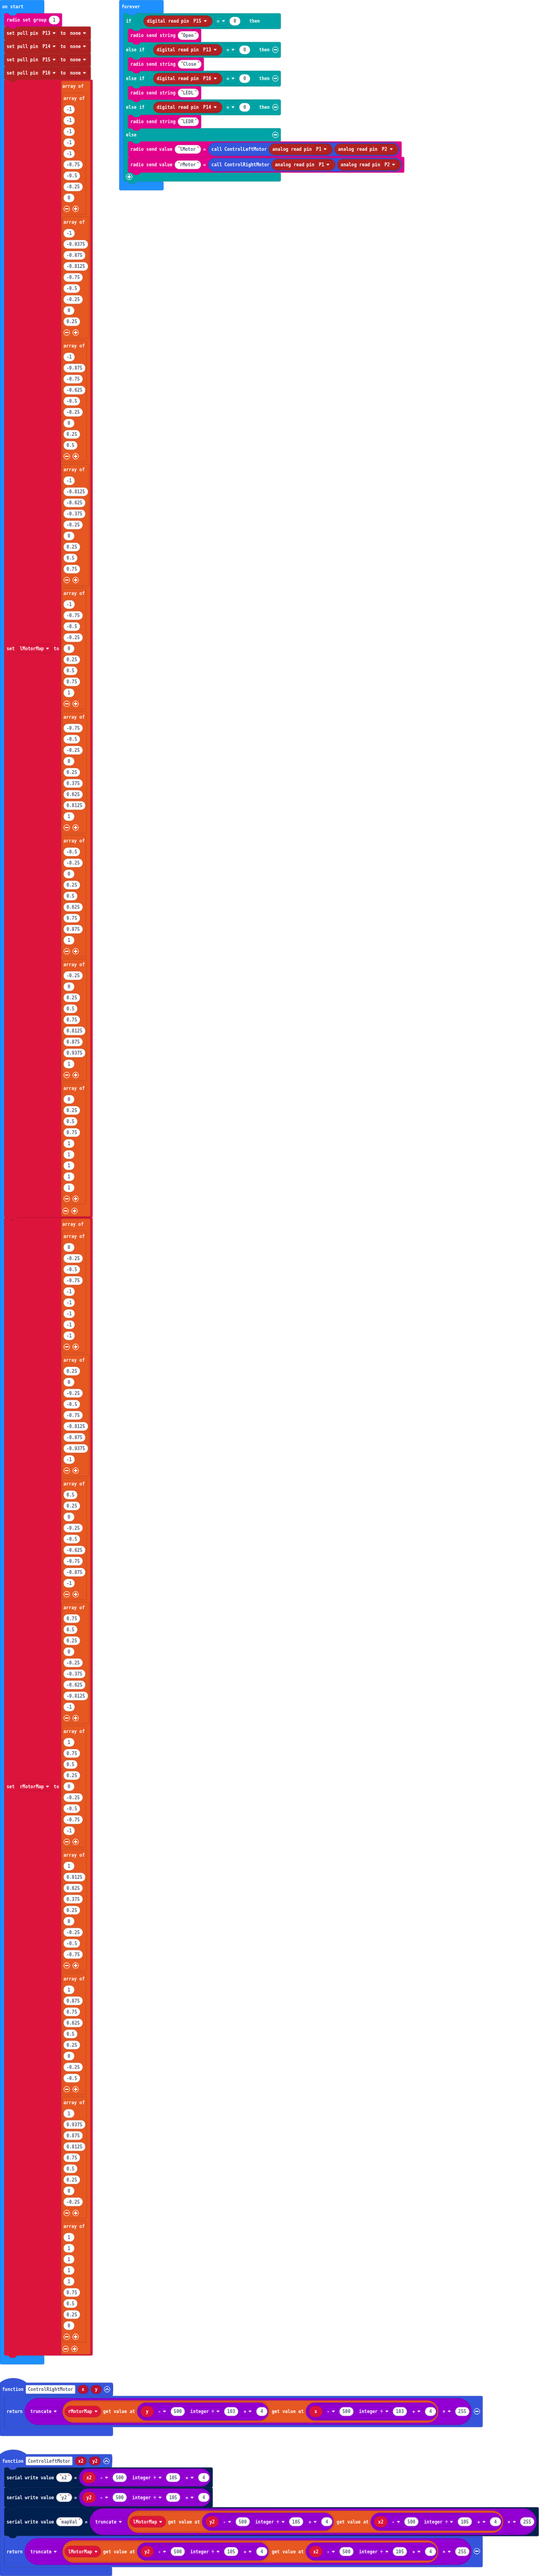
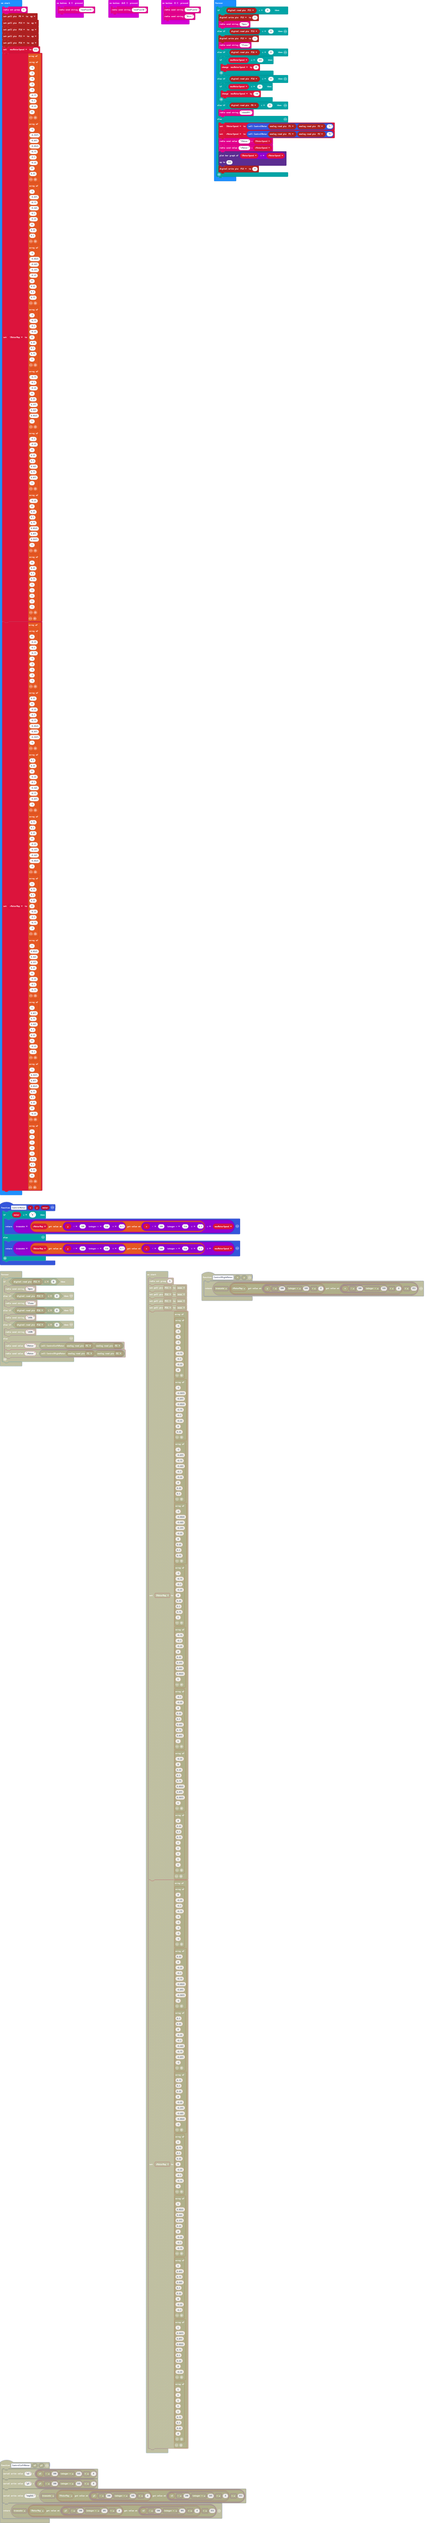
Adjustable Motor Map and Bug Fixes

Changed region(s): [[0.0, 0.0, 0.9834, 1.0]]

diff --git a/main.ts b/main.ts
@@ -1,32 +1,260 @@
-function ControlRightMotor(x: number, y: number): number {
-    return Math.trunc(rMotorMap[Math.idiv(y - 500, 114) + 4.5][Math.idiv(x - 500, 114) + 4.5] * 255)
+input.onButtonPressed(Button.A, function () {
+    radio.sendString("neoPixelR")
+})
+input.onButtonPressed(Button.AB, function () {
+    radio.sendString("neoPixelB")
+})
+input.onButtonPressed(Button.B, function () {
+    radio.sendString("neoPixelG")
+    radio.sendString("Hiii")
+})
+function ControlMotor (x: number, y: number, motor: string) {
+    if (motor == "R") {
+        return Math.trunc(rMotorMap[Math.idiv(y - 500, 114) + 4.5][Math.idiv(x - 500, 114) + 4.5] * maxMotorSpeed)
+    } else {
+        return Math.trunc(lMotorMap[Math.idiv(y - 500, 114) + 4.5][Math.idiv(x - 500, 114) + 4.5] * maxMotorSpeed)
+    }
 }
-
-function ControlLeftMotor(x2: number, y2: number): number {
-    return Math.trunc(lMotorMap[Math.idiv(y2 - 500, 114) + 4.5][Math.idiv(x2 - 500, 114) + 4.5] * 255)
-}
-
-let rMotorMap : number[][] = []
-let lMotorMap : number[][] = []
+let rMotorSpeed = 0
+let lMotorSpeed = 0
+let rMotorMap: number[][] = []
+let lMotorMap: number[][] = []
+let maxMotorSpeed = 0
 radio.setGroup(1)
-pins.setPull(DigitalPin.P13, PinPullMode.PullNone)
-pins.setPull(DigitalPin.P14, PinPullMode.PullNone)
-pins.setPull(DigitalPin.P15, PinPullMode.PullNone)
-pins.setPull(DigitalPin.P16, PinPullMode.PullNone)
-lMotorMap = [[-1, -1, -1, -1, -1, -0.75, -0.5, -0.25, 0], [-1, -0.9375, -0.875, -0.8125, -0.75, -0.5, -0.25, 0, 0.25], [-1, -0.875, -0.75, -0.625, -0.5, -0.25, 0, 0.25, 0.5], [-1, -0.8125, -0.625, -0.375, -0.25, 0, 0.25, 0.5, 0.75], [-1, -0.75, -0.5, -0.25, 0, 0.25, 0.5, 0.75, 1], [-0.75, -0.5, -0.25, 0, 0.25, 0.375, 0.625, 0.8125, 1], [-0.5, -0.25, 0, 0.25, 0.5, 0.625, 0.75, 0.875, 1], [-0.25, 0, 0.25, 0.5, 0.75, 0.8125, 0.875, 0.9375, 1], [0, 0.25, 0.5, 0.75, 1, 1, 1, 1, 1]]
-rMotorMap = [[0, -0.25, -0.5, -0.75, -1, -1, -1, -1, -1], [0.25, 0, -0.25, -0.5, -0.75, -0.8125, -0.875, -0.9375, -1], [0.5, 0.25, 0, -0.25, -0.5, -0.625, -0.75, -0.875, -1], [0.75, 0.5, 0.25, 0, -0.25, -0.375, -0.625, -0.8125, -1], [1, 0.75, 0.5, 0.25, 0, -0.25, -0.5, -0.75, -1], [1, 0.8125, 0.625, 0.375, 0.25, 0, -0.25, -0.5, -0.75], [1, 0.875, 0.75, 0.625, 0.5, 0.25, 0, -0.25, -0.5], [1, 0.9375, 0.875, 0.8125, 0.75, 0.5, 0.25, 0, -0.25], [1, 1, 1, 1, 1, 0.75, 0.5, 0.25, 0]]
-basic.forever(function on_forever() {
+pins.setPull(DigitalPin.P8, PinPullMode.PullUp)
+pins.setPull(DigitalPin.P13, PinPullMode.PullUp)
+pins.setPull(DigitalPin.P14, PinPullMode.PullUp)
+pins.setPull(DigitalPin.P15, PinPullMode.PullUp)
+pins.setPull(DigitalPin.P16, PinPullMode.PullUp)
+maxMotorSpeed = 255
+lMotorMap = [
+[
+-1,
+-1,
+-1,
+-1,
+-1,
+-0.75,
+-0.5,
+-0.25,
+0
+],
+[
+-1,
+-0.9375,
+-0.875,
+-0.8125,
+-0.75,
+-0.5,
+-0.25,
+0,
+0.25
+],
+[
+-1,
+-0.875,
+-0.75,
+-0.625,
+-0.5,
+-0.25,
+0,
+0.25,
+0.5
+],
+[
+-1,
+-0.8125,
+-0.625,
+-0.375,
+-0.25,
+0,
+0.25,
+0.5,
+0.75
+],
+[
+-1,
+-0.75,
+-0.5,
+-0.25,
+0,
+0.25,
+0.5,
+0.75,
+1
+],
+[
+-0.75,
+-0.5,
+-0.25,
+0,
+0.25,
+0.375,
+0.625,
+0.8125,
+1
+],
+[
+-0.5,
+-0.25,
+0,
+0.25,
+0.5,
+0.625,
+0.75,
+0.875,
+1
+],
+[
+-0.25,
+0,
+0.25,
+0.5,
+0.75,
+0.8125,
+0.875,
+0.9375,
+1
+],
+[
+0,
+0.25,
+0.5,
+0.75,
+1,
+1,
+1,
+1,
+1
+]
+]
+rMotorMap = [
+[
+0,
+-0.25,
+-0.5,
+-0.75,
+-1,
+-1,
+-1,
+-1,
+-1
+],
+[
+0.25,
+0,
+-0.25,
+-0.5,
+-0.75,
+-0.8125,
+-0.875,
+-0.9375,
+-1
+],
+[
+0.5,
+0.25,
+0,
+-0.25,
+-0.5,
+-0.625,
+-0.75,
+-0.875,
+-1
+],
+[
+0.75,
+0.5,
+0.25,
+0,
+-0.25,
+-0.375,
+-0.625,
+-0.8125,
+-1
+],
+[
+1,
+0.75,
+0.5,
+0.25,
+0,
+-0.25,
+-0.5,
+-0.75,
+-1
+],
+[
+1,
+0.8125,
+0.625,
+0.375,
+0.25,
+0,
+-0.25,
+-0.5,
+-0.75
+],
+[
+1,
+0.875,
+0.75,
+0.625,
+0.5,
+0.25,
+0,
+-0.25,
+-0.5
+],
+[
+1,
+0.9375,
+0.875,
+0.8125,
+0.75,
+0.5,
+0.25,
+0,
+-0.25
+],
+[
+1,
+1,
+1,
+1,
+1,
+0.75,
+0.5,
+0.25,
+0
+]
+]
+basic.forever(function () {
     if (pins.digitalReadPin(DigitalPin.P15) == 0) {
+        pins.digitalWritePin(DigitalPin.P12, 1)
         radio.sendString("Open")
     } else if (pins.digitalReadPin(DigitalPin.P13) == 0) {
+        pins.digitalWritePin(DigitalPin.P12, 1)
         radio.sendString("Close")
     } else if (pins.digitalReadPin(DigitalPin.P16) == 0) {
-        radio.sendString("LEDL")
+        if (maxMotorSpeed < 245) {
+            maxMotorSpeed += 10
+        }
     } else if (pins.digitalReadPin(DigitalPin.P14) == 0) {
-        radio.sendString("LEDR")
+        if (maxMotorSpeed > 8) {
+            maxMotorSpeed += -10
+        }
+    } else if (pins.digitalReadPin(DigitalPin.P8) == 0) {
+        radio.sendString("showOff")
     } else {
-        radio.sendValue("lMotor", ControlLeftMotor(pins.analogReadPin(AnalogPin.P1), pins.analogReadPin(AnalogPin.P2)))
-        radio.sendValue("rMotor", ControlRightMotor(pins.analogReadPin(AnalogPin.P1), pins.analogReadPin(AnalogPin.P2)))
+        lMotorSpeed = ControlMotor(pins.analogReadPin(AnalogPin.P1), pins.analogReadPin(AnalogPin.P2), "L")
+        rMotorSpeed = ControlMotor(pins.analogReadPin(AnalogPin.P1), pins.analogReadPin(AnalogPin.P2), "R")
+        radio.sendValue("lMotor", lMotorSpeed)
+        radio.sendValue("rMotor", rMotorSpeed)
+        led.plotBarGraph(
+        lMotorSpeed + rMotorSpeed,
+        511
+        )
+        pins.digitalWritePin(DigitalPin.P12, 0)
     }
-    
 })

diff --git a/main.py b/main.py
@@ -1,14 +1,31 @@
-def ControlRightMotor(x: number, y: number):
-    return int(rMotorMap[Math.idiv(y - 500, 114) + 4.5][Math.idiv(x - 500, 114) + 4.5] * 255)
-def ControlLeftMotor(x2: number, y2: number):
-    return int(lMotorMap[Math.idiv(y2 - 500, 114) + 4.5][Math.idiv(x2 - 500, 114) + 4.5] * 255)
+def on_button_pressed_a():
+    radio.send_string("neoPixelR")
+input.on_button_pressed(Button.A, on_button_pressed_a)
+
+def on_button_pressed_ab():
+    radio.send_string("neoPixelB")
+input.on_button_pressed(Button.AB, on_button_pressed_ab)
+
+def on_button_pressed_b():
+    radio.send_string("neoPixelG")
+input.on_button_pressed(Button.B, on_button_pressed_b)
+
+def ControlMotor(x: number, y: number, motor: str):
+    if motor == "R":
+        return int(rMotorMap[Math.idiv(y - 500, 114) + 4.5][Math.idiv(x - 500, 114) + 4.5] * maxMotorSpeed)
+    else:
+        return int(lMotorMap[Math.idiv(y - 500, 114) + 4.5][Math.idiv(x - 500, 114) + 4.5] * maxMotorSpeed)
+rMotorSpeed = 0
+lMotorSpeed = 0
 rMotorMap: List[List[number]] = []
 lMotorMap: List[List[number]] = []
 radio.set_group(1)
-pins.set_pull(DigitalPin.P13, PinPullMode.PULL_NONE)
-pins.set_pull(DigitalPin.P14, PinPullMode.PULL_NONE)
-pins.set_pull(DigitalPin.P15, PinPullMode.PULL_NONE)
-pins.set_pull(DigitalPin.P16, PinPullMode.PULL_NONE)
+pins.set_pull(DigitalPin.P8, PinPullMode.PULL_UP)
+pins.set_pull(DigitalPin.P13, PinPullMode.PULL_UP)
+pins.set_pull(DigitalPin.P14, PinPullMode.PULL_UP)
+pins.set_pull(DigitalPin.P15, PinPullMode.PULL_UP)
+pins.set_pull(DigitalPin.P16, PinPullMode.PULL_UP)
+maxMotorSpeed = 255
 lMotorMap = [[-1, -1, -1, -1, -1, -0.75, -0.5, -0.25, 0],
     [-1, -0.9375, -0.875, -0.8125, -0.75, -0.5, -0.25, 0, 0.25],
     [-1, -0.875, -0.75, -0.625, -0.5, -0.25, 0, 0.25, 0.5],
@@ -29,19 +46,31 @@ rMotorMap = [[0, -0.25, -0.5, -0.75, -1, -1, -1, -1, -1],
     [1, 1, 1, 1, 1, 0.75, 0.5, 0.25, 0]]
 
 def on_forever():
+    global lMotorSpeed, rMotorSpeed
     if pins.digital_read_pin(DigitalPin.P15) == 0:
+        pins.digital_write_pin(DigitalPin.P12, 1)
         radio.send_string("Open")
     elif pins.digital_read_pin(DigitalPin.P13) == 0:
+        pins.digital_write_pin(DigitalPin.P12, 1)
         radio.send_string("Close")
     elif pins.digital_read_pin(DigitalPin.P16) == 0:
         radio.send_string("LEDL")
     elif pins.digital_read_pin(DigitalPin.P14) == 0:
         radio.send_string("LEDR")
+    elif pins.digital_read_pin(DigitalPin.P8) == 0:
+        if pins.digital_read_pin(DigitalPin.P15) == 0:
+            radio.send_string("Honk")
+        else:
+            radio.send_string("showOff")
     else:
-        radio.send_value("lMotor",
-            ControlLeftMotor(pins.analog_read_pin(AnalogPin.P1),
-                pins.analog_read_pin(AnalogPin.P2)))
-        radio.send_value("rMotor",
-            ControlRightMotor(pins.analog_read_pin(AnalogPin.P1),
-                pins.analog_read_pin(AnalogPin.P2)))
+        lMotorSpeed = ControlMotor(pins.analog_read_pin(AnalogPin.P1),
+            pins.analog_read_pin(AnalogPin.P2),
+            "L")
+        rMotorSpeed = ControlMotor(pins.analog_read_pin(AnalogPin.P1),
+            pins.analog_read_pin(AnalogPin.P2),
+            "R")
+        radio.send_value("lMotor", lMotorSpeed)
+        radio.send_value("rMotor", rMotorSpeed)
+        led.plot_bar_graph(lMotorSpeed + rMotorSpeed, 511)
+        pins.digital_write_pin(DigitalPin.P12, 0)
 basic.forever(on_forever)
